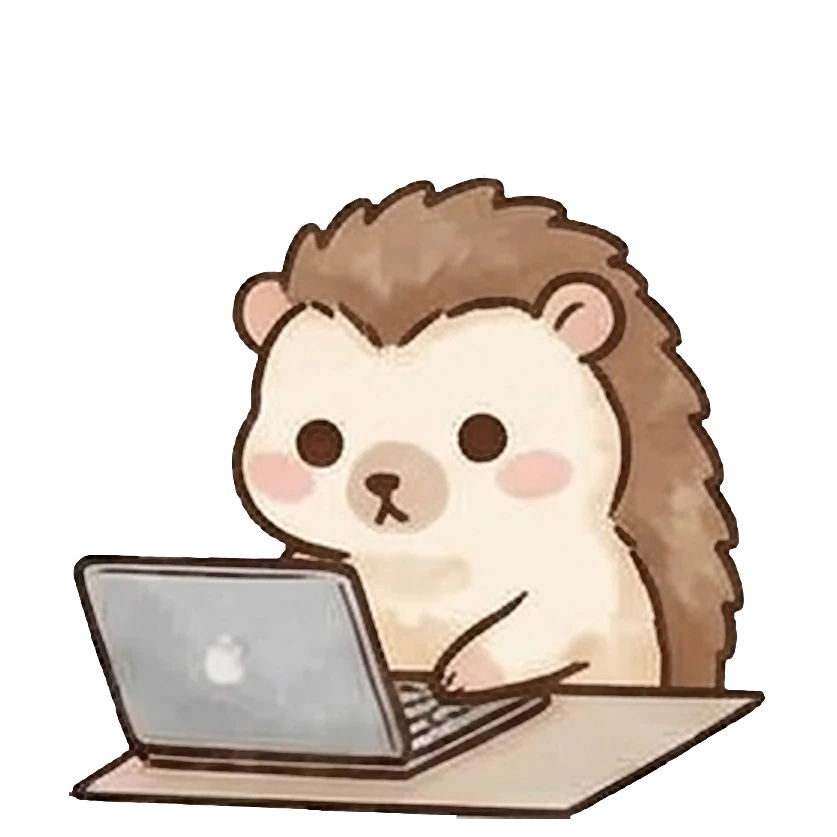
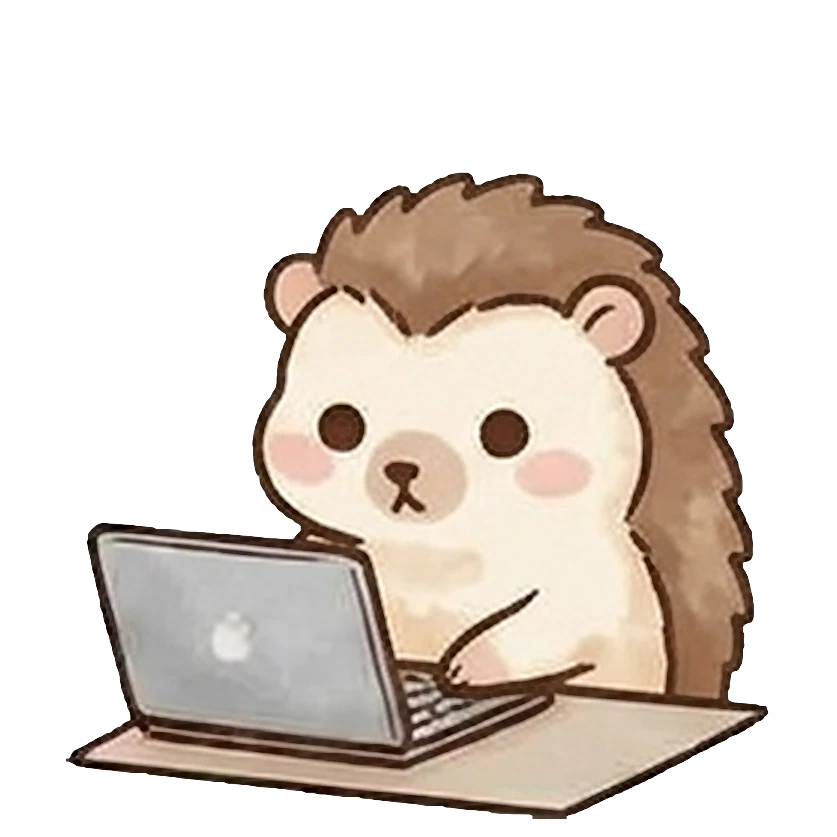
Pets: level the desk in the laptop pose

diff --git a/js/pets.js b/js/pets.js
@@ -443,7 +443,7 @@
   // Картинки квадратные, питомец по центру, ноги на одной линии. Одёжки из магазина рисуем поверх,
   // поэтому задана примерная «геометрия головы» (IMG_GEO) — в координатах прежнего холста (OLD),
   // а сдвиг/масштаб под нынешний холст (IMG_CANVAS — печатает tools/slice_sheets.py) считается ниже.
-  const IMG_V = 4;                       // поменяй, если перерисуешь картинки (сброс кэша)
+  const IMG_V = 5;                       // поменяй, если перерисуешь картинки (сброс кэша)
   const POSES = ["idle", "happy", "sad", "eat", "read", "sleep", "play", "focus", "proud", "boba"];
   const IMG_GEO = { headCy: 100, headRx: 60, headRy: 66, top: 65, eyeY: 112, eyeDX: 26 };
   const OLD = { side: 310, bottom: 310 }, IMG_CANVAS = { side: 279, bottom: 273 };

diff --git a/index.html b/index.html
@@ -106,7 +106,7 @@
   <div class="toasts" id="toasts"></div>
 
   <!-- порядок важен: сначала питомцы и вопросы, потом логика, потом интерфейс -->
-  <script src="js/pets.js?v=40"></script>
+  <script src="js/pets.js?v=41"></script>
   <script src="js/questions.js?v=35"></script>
   <script src="js/game.js?v=35"></script>
   <script src="js/cards.js?v=35"></script>

diff --git a/tools/slice_sheets.py b/tools/slice_sheets.py
@@ -21,6 +21,7 @@ POSES = ["idle", "happy", "sad", "eat", "read", "sleep", "play", "focus", "proud
 PETS = ["hamster", "sheep", "capybara", "panda", "duck", "hedgehog"]
 SCALE = 3           # увеличение исходника
 PAD = 6             # поля холста (в пикселях исходника)
+TILT = {"focus": -4}  # поворот позы в градусах: у ноутбука стол на листе наклонён — выравниваем
 
 
 def stickers(im):
@@ -131,7 +132,13 @@ if __name__ == "__main__":
             print("!!", pet, "нашлось стикеров:", len(boxes), boxes)
             continue
         for pose, (x0, y0, x1, y1) in zip(POSES, boxes):
-            parts[(pet, pose)] = cutout(sheet.crop((max(0, x0 - 4), max(0, y0 - 4), x1 + 4, y1 + 4)))
+            rgb, obj = cutout(sheet.crop((max(0, x0 - 4), max(0, y0 - 4), x1 + 4, y1 + 4)))
+            if pose in TILT:   # выравниваем наклонённый стол (по часовой стрелке)
+                rgb = rgb.rotate(TILT[pose], Image.BICUBIC, expand=True, fillcolor=(255, 255, 255))
+                obj = obj.rotate(TILT[pose], Image.BILINEAR, expand=True).point(lambda v: 255 if v >= 128 else 0)
+                box = obj.getbbox()
+                rgb, obj = rgb.crop(box), obj.crop(box)
+            parts[(pet, pose)] = (rgb, obj)
         print("ok", pet)
     # общий квадратный холст по самому большому стикеру
     side = max(max(r.width, r.height) for r, _ in parts.values()) + PAD * 2
